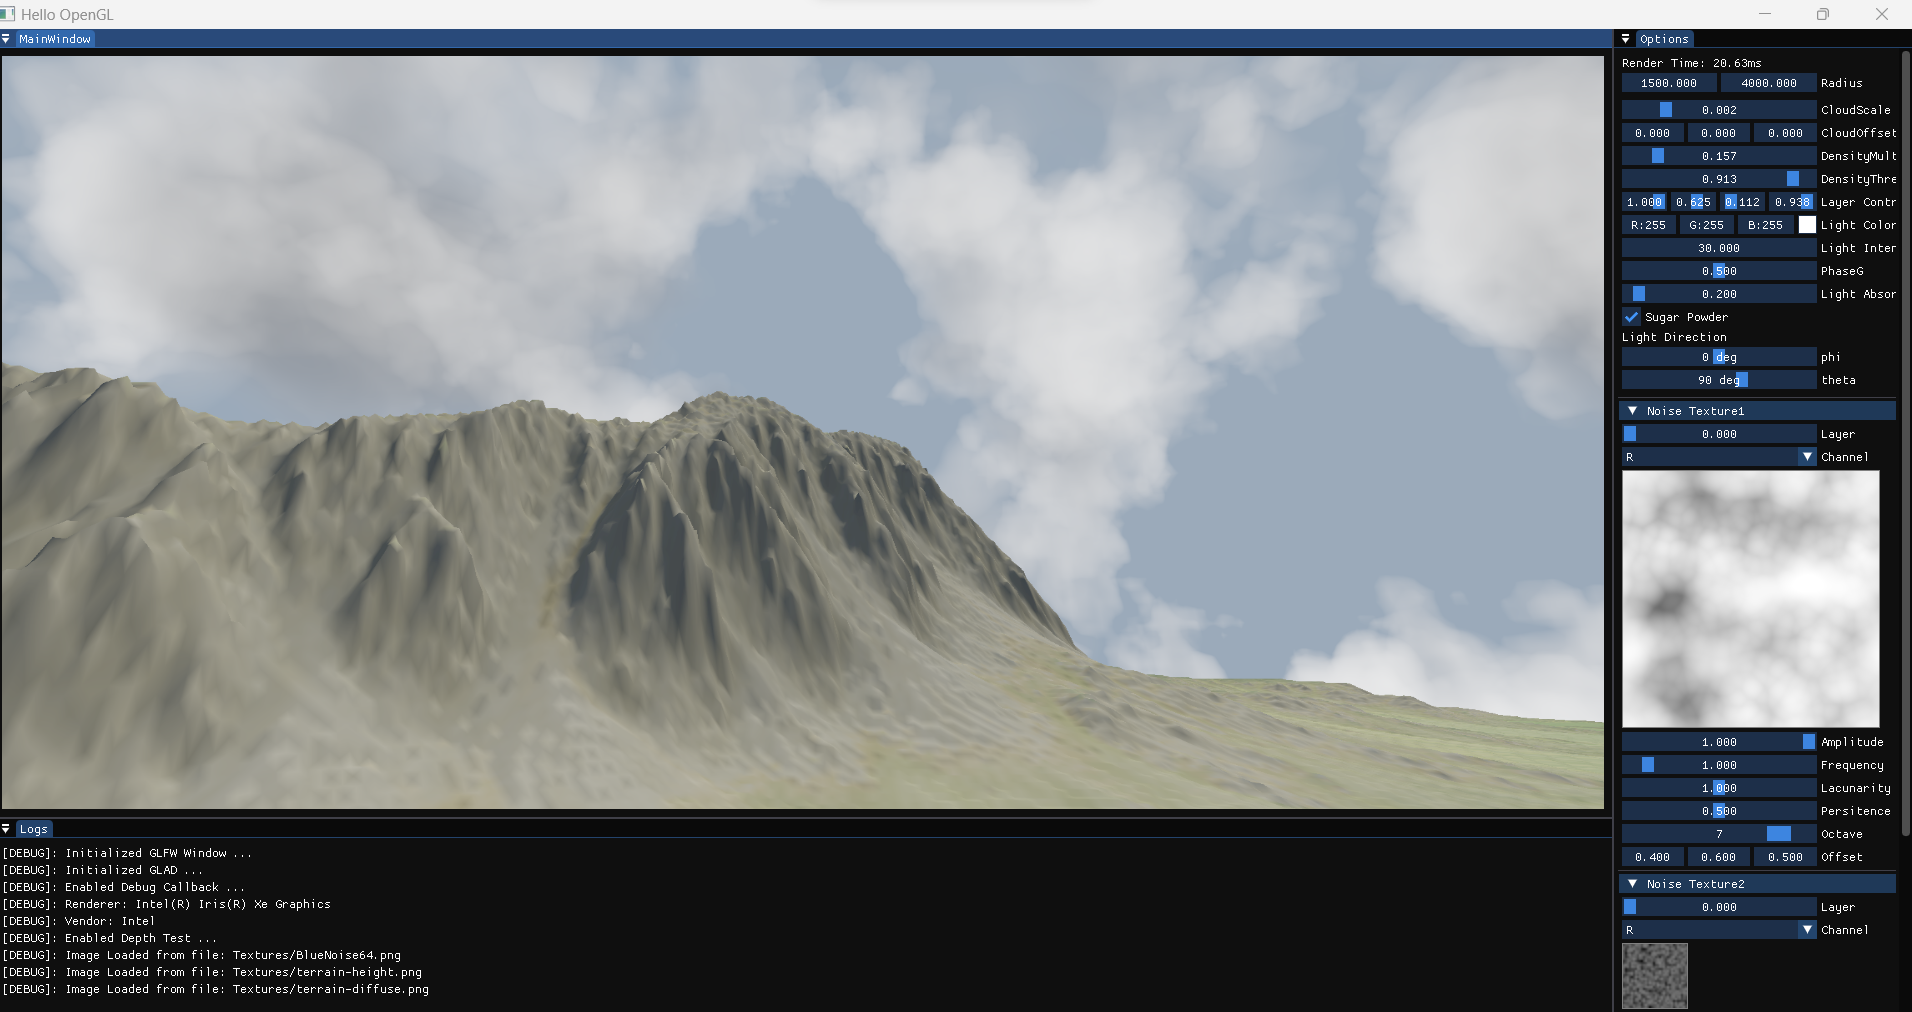
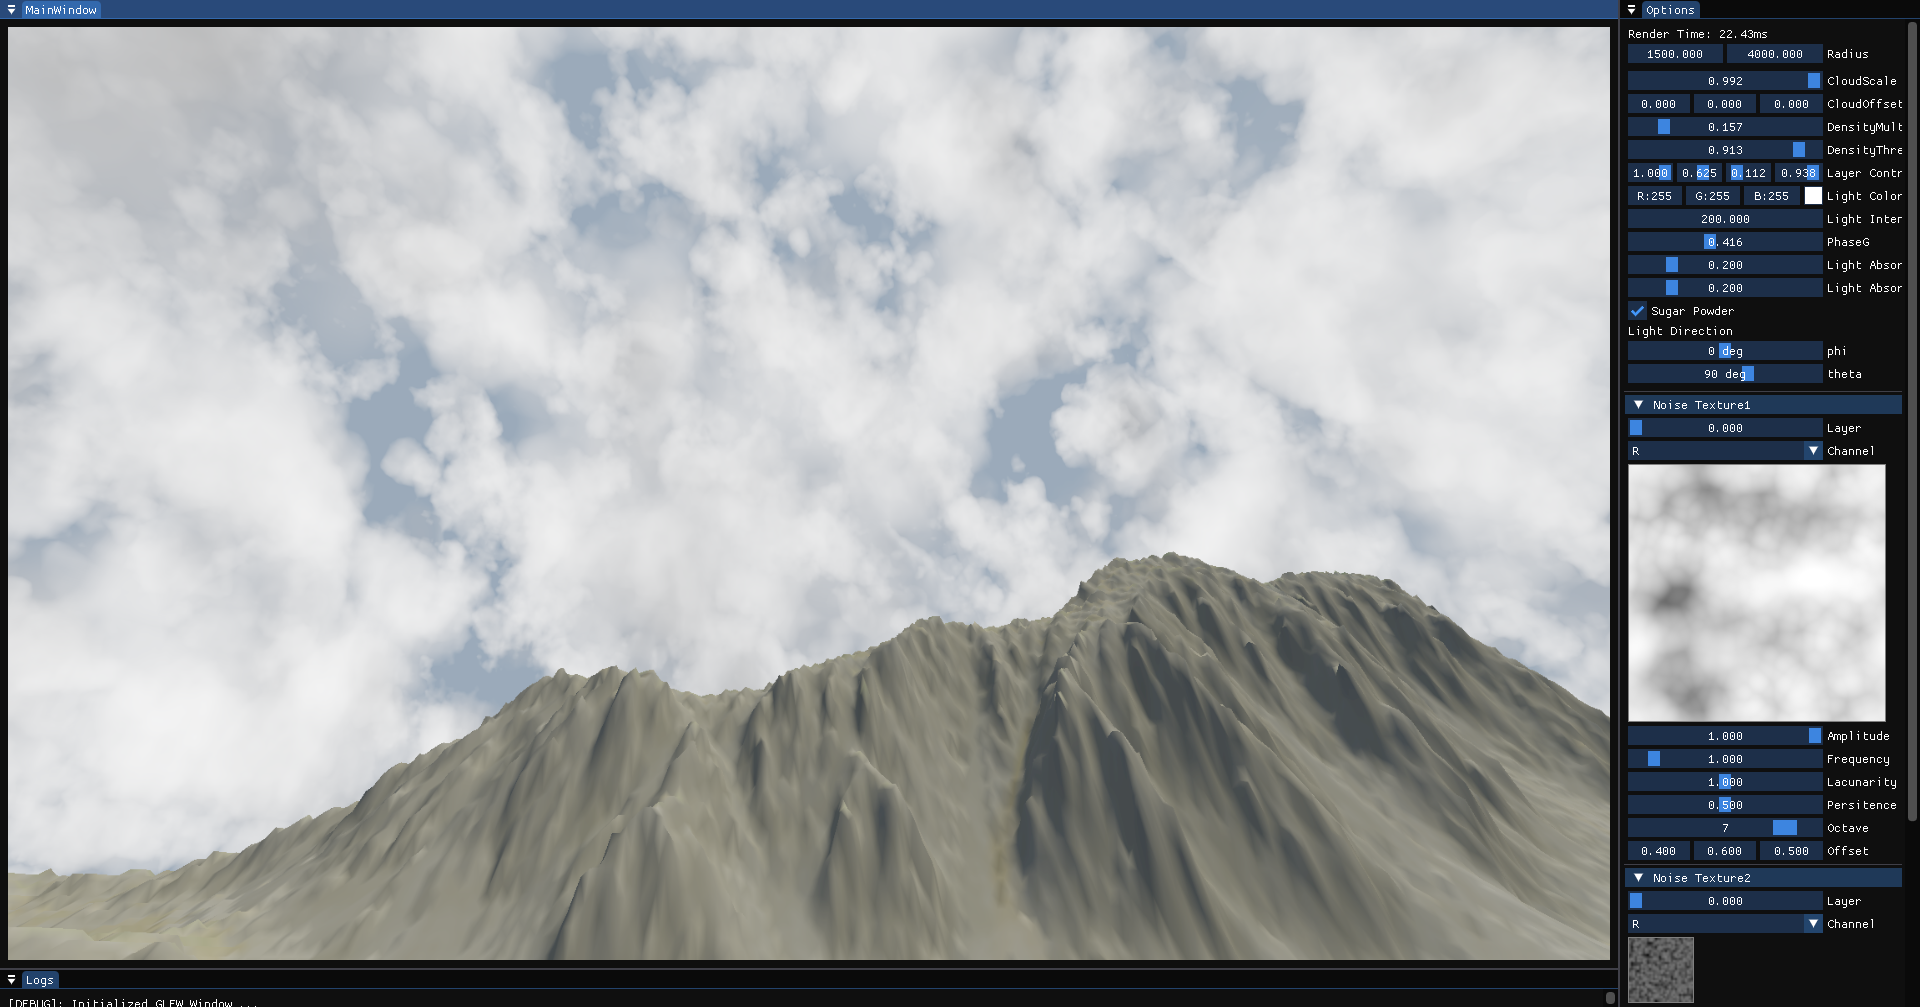
* minor changes
- update screenshot

diff --git a/Source/cloud-generator.cpp b/Source/cloud-generator.cpp
@@ -105,7 +105,7 @@ void CloudGenerator::AddUI()
 	ImGui::DragFloat2("Radius", &mRadius[0], 10.0f);
 	ImGui::Spacing();
 
-	ImGui::SliderFloat("CloudScale", &mCloudScale, 0.0f, 0.01f);
+	ImGui::SliderFloat("CloudScale", &mCloudScale, 0.0f, 1.0f);
 	ImGui::DragFloat3("CloudOffset", &mCloudOffset[0], 0.1f);
 
 	ImGui::SliderFloat("DensityMultiplier", &mDensityMultiplier, 0.0f, 1.0f);
@@ -115,7 +115,8 @@ void CloudGenerator::AddUI()
 	ImGui::ColorEdit3("Light Color", &mLightColor[0]);
 	ImGui::DragFloat("Light Intensity", &mLightColor.w, 0.1f);
 	ImGui::SliderFloat("PhaseG", &mPhaseG, 0.0f, 1.0f);
-	ImGui::SliderFloat("Light Absorption", &mLightAbsorption, 0.0f, 4.0f);
+	ImGui::SliderFloat("Light Absorption(Toward Camera)", &mLightAbsorption.x, 0.0f, 1.0f);
+	ImGui::SliderFloat("Light Absorption(Toward Sun)", &mLightAbsorption.y, 0.0f, 1.0f);
 	ImGui::Checkbox("Sugar Powder", &mSugarPowder);
 
 	static float theta = glm::radians(90.0f), phi = 0.0f;
@@ -168,7 +169,7 @@ void CloudGenerator::Render(Camera* camera, float dt, uint32_t depthTexture, uin
 	/**/
 	glUseProgram(0);
 	mRayMarchProgram->use();
-	mRayMarchProgram->setVec3("mRadius", &mRadius[0]);
+	mRayMarchProgram->setVec2("uRadius", &mRadius[0]);
 	mRayMarchProgram->setVec3("uCamPos", &camPos[0]);
 	mRayMarchProgram->setMat4("uInvP", &invP[0][0]);
 	mRayMarchProgram->setMat4("uInvV", &invV[0][0]);
@@ -187,7 +188,7 @@ void CloudGenerator::Render(Camera* camera, float dt, uint32_t depthTexture, uin
 	mRayMarchProgram->setVec4("uLightColor", &mLightColor[0]);
 	mRayMarchProgram->setVec4("uLayerContribution", &mLayerContribution[0]);
 	mRayMarchProgram->setFloat("uPhaseG", mPhaseG);
-	mRayMarchProgram->setFloat("uLightAbsorption", mLightAbsorption);
+	mRayMarchProgram->setVec2("uLightAbsorption", &mLightAbsorption[0]);
 	mRayMarchProgram->setInt("uSugarPowder", int(mSugarPowder));
 
 	glBindBuffer(GL_ARRAY_BUFFER, mQuadBuffer->handle);

diff --git a/Source/cloud-generator.h b/Source/cloud-generator.h
@@ -35,15 +35,15 @@ private:
 
 	std::unique_ptr<GLBuffer> mQuadBuffer;
 
-	float mCloudScale = 0.002f;
+	float mCloudScale = 1.0f;
 	glm::vec3 mCloudOffset{ 0.0f };
 	float mDensityMultiplier = 0.157f;
 	float mDensityThreshold = 0.913f;
 	glm::vec3 mLightDirection = glm::vec3(0.0f, 1.0f, 0.0f);
-	glm::vec4 mLightColor = glm::vec4(1.0f, 1.0f, 1.0f, 30.0f);
+	glm::vec4 mLightColor = glm::vec4(1.0f, 1.0f, 1.0f, 200.0f);
 	glm::vec4 mLayerContribution = glm::vec4(1.0f, 0.625, 0.112, 0.938);
 	float mPhaseG = 0.5f;
-	float mLightAbsorption = 0.2f;
+	glm::vec2 mLightAbsorption{ 0.2f };
 	bool mSugarPowder = true;
 
 	unsigned int mGpuQuery;
